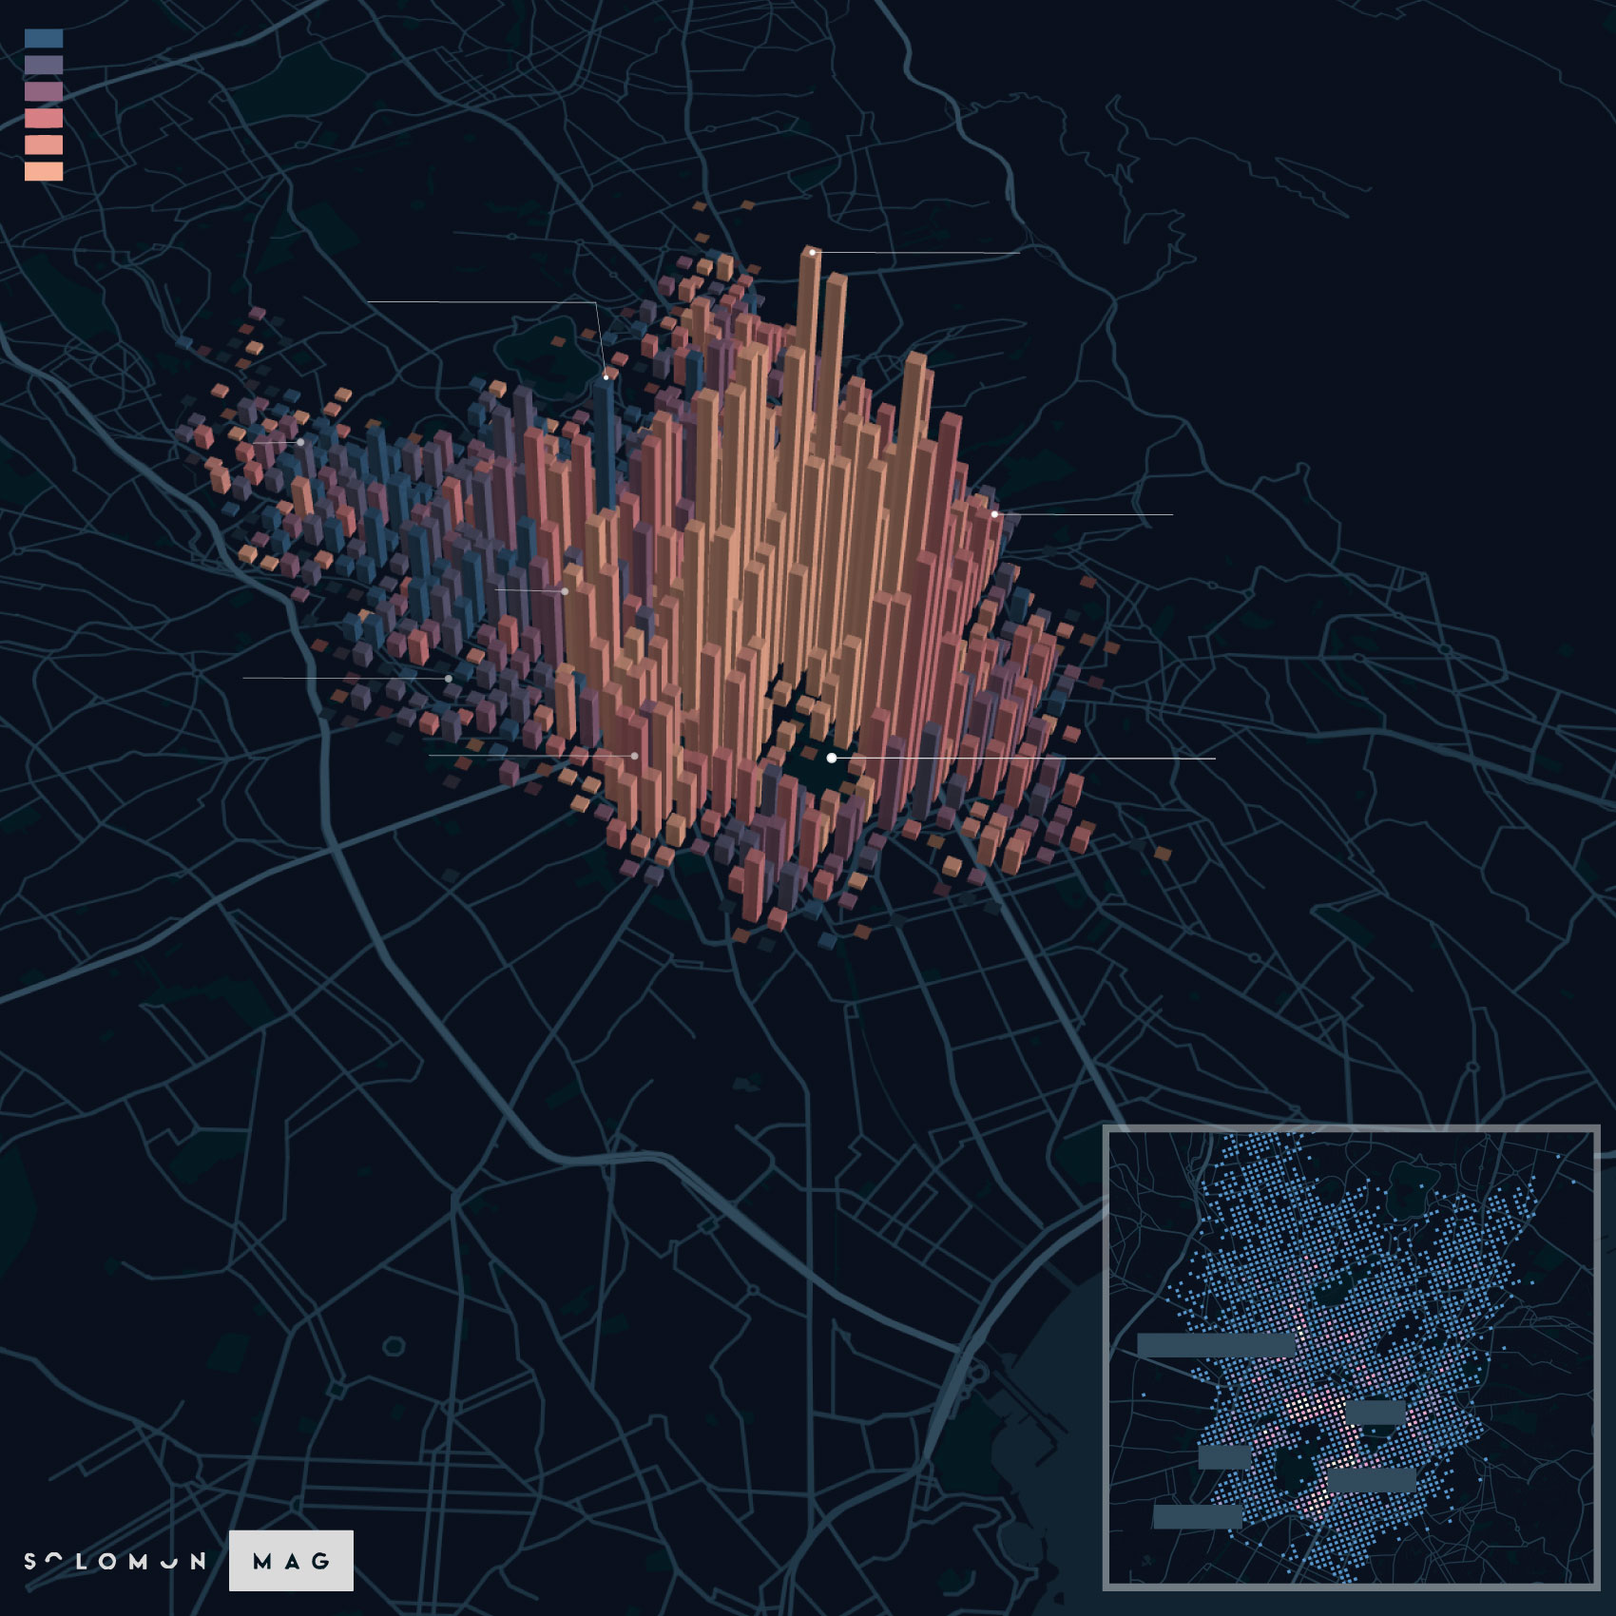
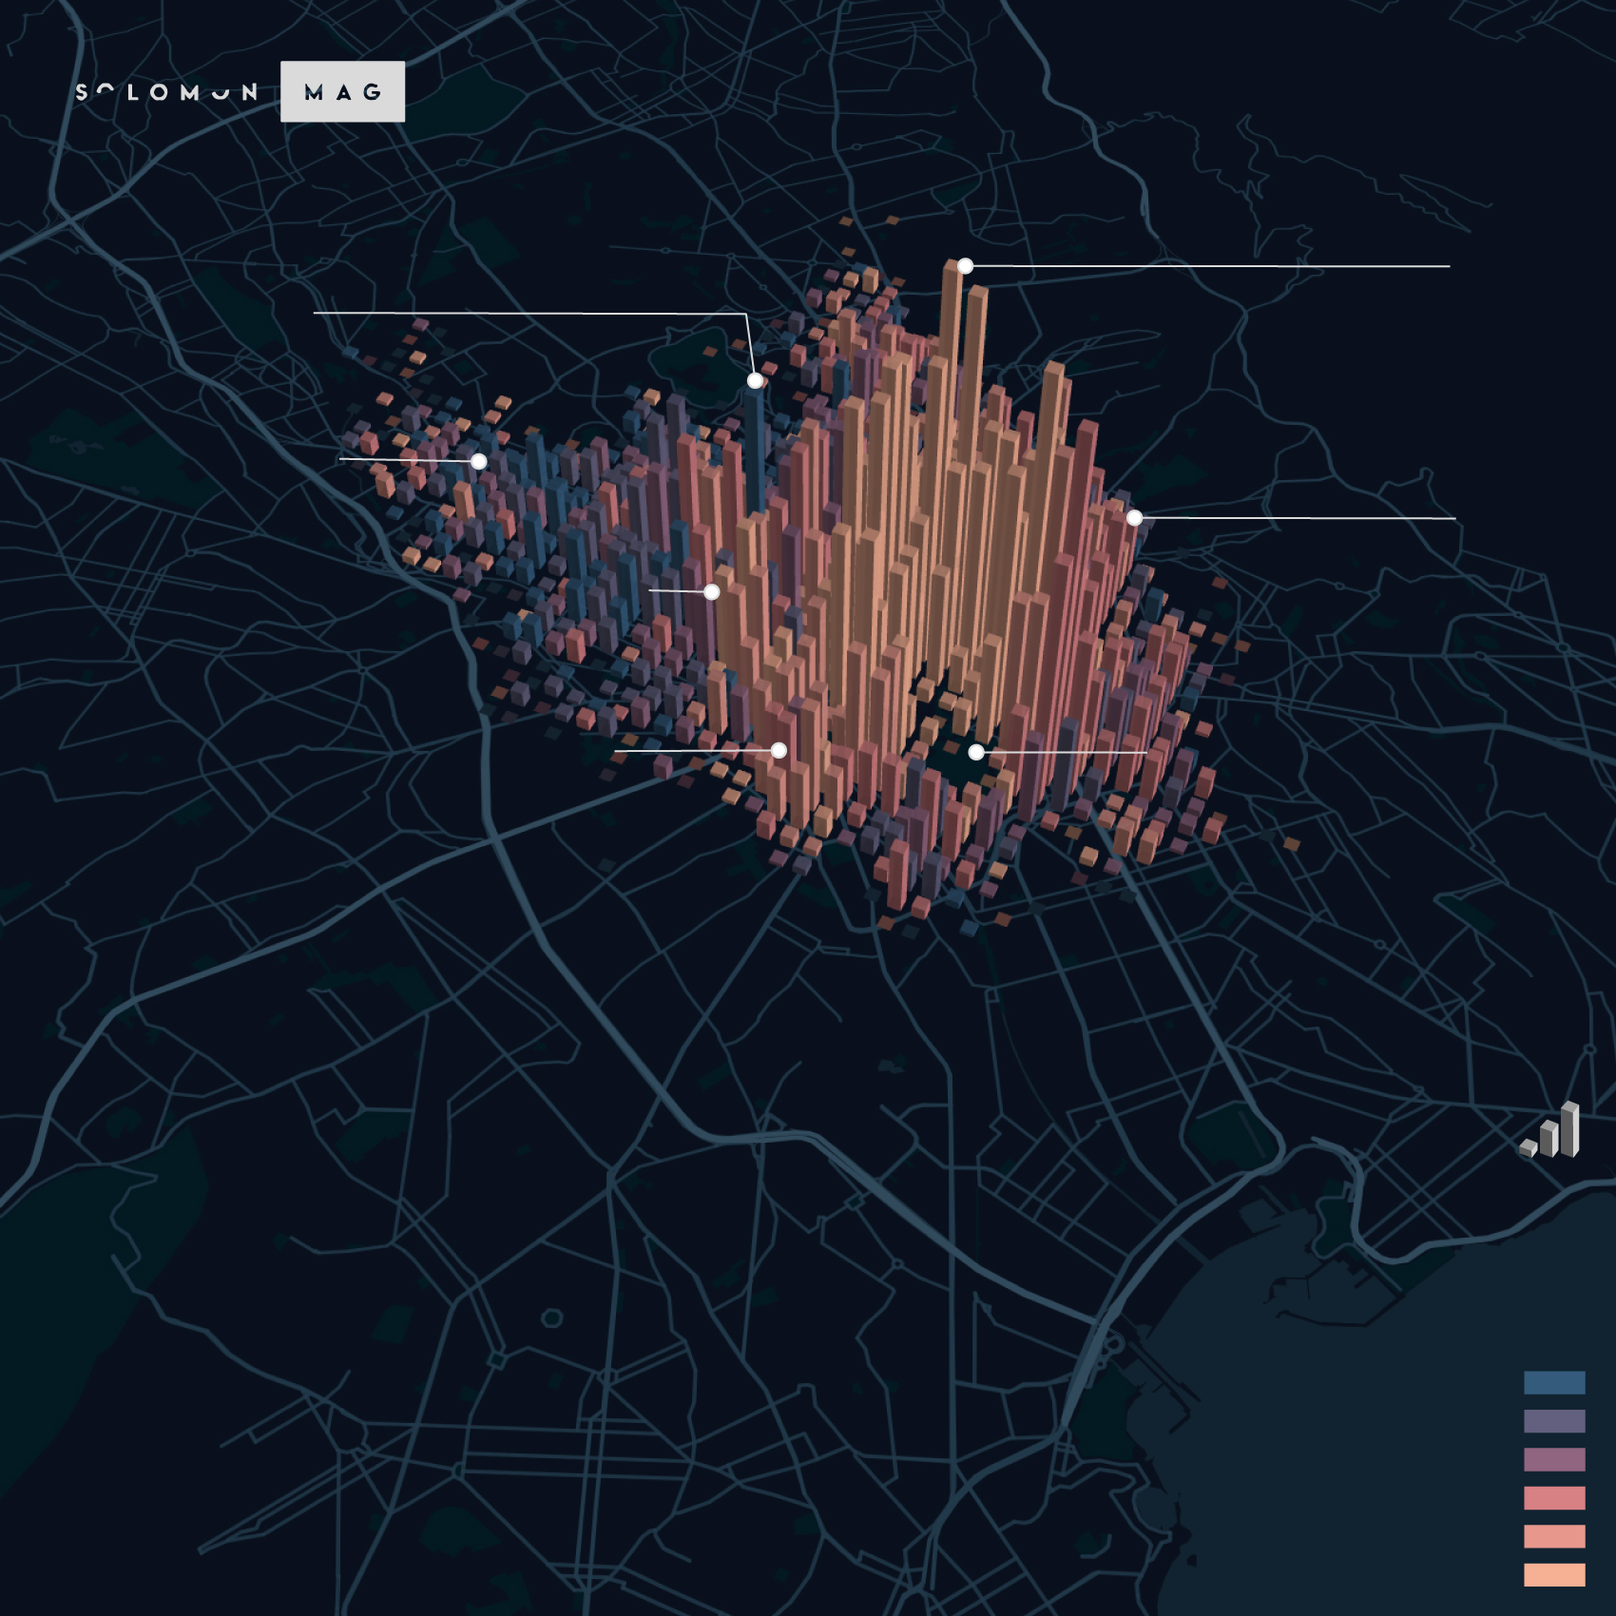
updates

diff --git a/airbnb/index.html b/airbnb/index.html
@@ -1,5 +1,5 @@
 
-<!-- Generated by ai2html v0.89.0 - 2019-07-04 18:56 -->
+<!-- Generated by ai2html v0.89.0 - 2019-08-15 16:33 -->
 <!-- ai file: AIRBNB.ai -->
 <style type='text/css' media='screen,print'>
 	#g-AIRBNB-box .g-artboard {
@@ -25,15 +25,15 @@
 		overflow:hidden;
 	}
 	#g-AIRBNB-Artboard_1 p {
-		font-family:roboto-condensed,sans-serif;
-		font-size:15px;
-		line-height:17px;
+		font-family:Roboto-Light,sans-serif;
+		font-size:20px;
+		line-height:24px;
 		filter:alpha(opacity=100);
 		-ms-filter:progid:DXImageTransform.Microsoft.Alpha(Opacity=100);
 		opacity:1;
 		letter-spacing:0em;
 		text-align:left;
-		color:rgb(218,218,218);
+		color:rgb(239,239,239);
 		text-transform:none;
 		padding-bottom:0;
 		padding-top:0;
@@ -43,86 +43,116 @@
 		position:static;
 	}
 	#g-AIRBNB-Artboard_1 .g-pstyle0 {
-		font-style:italic;
-		font-size:11px;
-		line-height:11px;
-		height:11px;
-		filter:alpha(opacity=80);
-		-ms-filter:progid:DXImageTransform.Microsoft.Alpha(Opacity=80);
-		opacity:0.8;
+		font-size:10px;
+		line-height:6px;
+		filter:alpha(opacity=50);
+		-ms-filter:progid:DXImageTransform.Microsoft.Alpha(Opacity=50);
+		opacity:0.5;
 		text-align:right;
+		color:rgb(218,218,218);
 	}
 	#g-AIRBNB-Artboard_1 .g-pstyle1 {
-		font-size:12px;
-		line-height:20px;
-		height:20px;
+		font-size:10px;
+		line-height:6px;
+		height:6px;
+		filter:alpha(opacity=50);
+		-ms-filter:progid:DXImageTransform.Microsoft.Alpha(Opacity=50);
+		opacity:0.5;
+		text-align:right;
+		color:rgb(218,218,218);
 	}
 	#g-AIRBNB-Artboard_1 .g-pstyle2 {
+		font-size:17px;
+		line-height:20px;
+		text-align:right;
+		color:rgb(218,218,218);
+	}
+	#g-AIRBNB-Artboard_1 .g-pstyle3 {
+		font-family:Roboto-Regular,sans-serif;
+		font-size:17px;
+		line-height:22px;
+		height:22px;
+		color:rgb(218,218,218);
+	}
+	#g-AIRBNB-Artboard_1 .g-pstyle4 {
+		font-family:Roboto-Regular,sans-serif;
+		font-size:17px;
+		line-height:17px;
+		height:17px;
+		text-align:right;
+		color:rgb(218,218,218);
+	}
+	#g-AIRBNB-Artboard_1 .g-pstyle5 {
+		font-family:Roboto-Regular,sans-serif;
+		font-size:17px;
+		line-height:22px;
+		height:22px;
+		filter:alpha(opacity=90);
+		-ms-filter:progid:DXImageTransform.Microsoft.Alpha(Opacity=90);
+		opacity:0.9;
+		color:rgb(218,218,218);
+	}
+	#g-AIRBNB-Artboard_1 .g-pstyle6 {
+		font-family:Roboto-Regular,sans-serif;
+		font-size:17px;
+		line-height:22px;
+		height:22px;
+		filter:alpha(opacity=40);
+		-ms-filter:progid:DXImageTransform.Microsoft.Alpha(Opacity=40);
+		opacity:0.4;
+		color:rgb(218,218,218);
+	}
+	#g-AIRBNB-Artboard_1 .g-pstyle7 {
+		font-size:47px;
+		line-height:56px;
+		color:rgb(218,218,218);
+	}
+	#g-AIRBNB-Artboard_1 .g-pstyle8 {
+		font-family:roboto-condensed,sans-serif;
+		font-size:12px;
+		line-height:12px;
+		text-align:right;
+		color:rgb(218,218,218);
+	}
+	#g-AIRBNB-Artboard_1 .g-pstyle9 {
+		font-family:roboto-condensed,sans-serif;
+		font-size:12px;
+		line-height:21px;
+		height:21px;
+		text-align:right;
+		color:rgb(218,218,218);
+	}
+	#g-AIRBNB-Artboard_1 .g-pstyle10 {
+		font-family:Roboto-Italic,sans-serif;
 		font-style:italic;
-		font-size:9px;
-		line-height:9px;
+		font-size:17px;
+		line-height:20px;
+		height:20px;
 		filter:alpha(opacity=80);
 		-ms-filter:progid:DXImageTransform.Microsoft.Alpha(Opacity=80);
 		opacity:0.8;
-		text-align:right;
-	}
-	#g-AIRBNB-Artboard_1 .g-pstyle3 {
-		font-size:12px;
-		line-height:12px;
-		text-align:right;
-	}
-	#g-AIRBNB-Artboard_1 .g-pstyle4 {
-		font-size:12px;
-		line-height:12px;
-		height:12px;
-	}
-	#g-AIRBNB-Artboard_1 .g-pstyle5 {
-		font-size:20px;
-		line-height:12px;
-		height:12px;
-		filter:alpha(opacity=60);
-		-ms-filter:progid:DXImageTransform.Microsoft.Alpha(Opacity=60);
-		opacity:0.6;
-	}
-	#g-AIRBNB-Artboard_1 .g-pstyle6 {
-		font-size:20px;
-		line-height:18px;
-		height:18px;
-		filter:alpha(opacity=60);
-		-ms-filter:progid:DXImageTransform.Microsoft.Alpha(Opacity=60);
-		opacity:0.6;
-		text-align:right;
-	}
-	#g-AIRBNB-Artboard_1 .g-pstyle7 {
-		font-size:20px;
-		line-height:18px;
-		height:18px;
-		filter:alpha(opacity=60);
-		-ms-filter:progid:DXImageTransform.Microsoft.Alpha(Opacity=60);
-		opacity:0.6;
-	}
-	#g-AIRBNB-Artboard_1 .g-pstyle8 {
-		font-style:bold;
-		font-size:25px;
-		line-height:7px;
-		height:7px;
-	}
-	#g-AIRBNB-Artboard_1 .g-pstyle9 {
-		font-size:36px;
-		line-height:36px;
-		height:36px;
-	}
-	#g-AIRBNB-Artboard_1 .g-pstyle10 {
-		font-style:italic;
-		font-size:12px;
-		line-height:12px;
-		text-align:right;
+		color:rgb(232,232,232);
 	}
 	#g-AIRBNB-Artboard_1 .g-pstyle11 {
-		font-style:bold;
-		font-size:9px;
-		line-height:7px;
-		height:7px;
+		font-family:Roboto-LightItalic,sans-serif;
+		font-size:17px;
+		line-height:20px;
+		height:20px;
+		filter:alpha(opacity=80);
+		-ms-filter:progid:DXImageTransform.Microsoft.Alpha(Opacity=80);
+		opacity:0.8;
+		color:rgb(232,232,232);
+	}
+	#g-AIRBNB-Artboard_1 .g-pstyle12 {
+		font-family:roboto-condensed,sans-serif;
+		font-size:12px;
+		line-height:12px;
+		height:12px;
+		color:rgb(218,218,218);
+	}
+	#g-AIRBNB-Artboard_1 .g-cstyle0 {
+		font-family:Roboto-Black,sans-serif;
+		font-weight:black;
 	}
 
 </style>
@@ -132,95 +162,73 @@
 	<!-- Artboard: Artboard_1 -->
 	<div id="g-AIRBNB-Artboard_1" class="g-artboard" style="width:850px; height:850px;" data-aspect-ratio="1" data-min-width="850">
 		<img id="g-AIRBNB-Artboard_1-img" class="g-aiImg g-aiAbs" alt="" src="AIRBNB-Artboard_1.jpg"/>
-		<div id="g-ai0-1" class="g-Layer_1 g-aiAbs g-aiPointText" style="top:3.1406%;margin-top:-11.7px;right:0.9431%;width:243px;">
-			<p class="g-pstyle0">Θανάσης Τρομπούκης</p>
-			<p class="g-pstyle0">Έρευνα - Ανάλυση - Οπτικοποίηση Δεδομένων</p>
+		<div id="g-ai0-1" class="g-Layer_1 g-aiAbs" style="top:2.9412%;right:2.6494%;width:24.1176%;">
+			<p class="g-pstyle0">ΣΤΟΙΧΕΙΑ ΜΑΪΟΥ 2019 | INSIDEAIRBNB.COM</p>
 		</div>
-		<div id="g-ai0-2" class="g-Layer_1 g-aiAbs g-aiPointText" style="top:2.5599%;margin-top:-10.8px;left:4.5492%;width:62px;">
-			<p class="g-pstyle1">έως 23&euro;</p>
+		<div id="g-ai0-2" class="g-Layer_1 g-aiAbs g-aiPointText" style="top:5.0156%;margin-top:-3.6px;right:2.5422%;width:166px;">
+			<p class="g-pstyle1">ΧΑΡΤΟΓΡΑΦΗΣΗ ΜΕ KEPLER.GL</p>
 		</div>
-		<div id="g-ai0-3" class="g-Layer_1 g-aiAbs g-aiPointText" style="top:4.2069%;margin-top:-10.8px;left:4.3975%;width:63px;">
-			<p class="g-pstyle1">23&euro;- 35&euro;</p>
+		<div id="g-ai0-3" class="g-Layer_1 g-aiAbs" style="top:11.0588%;right:10.5171%;width:29.4118%;">
+			<p class="g-pstyle2">98 διαμερίσματα στο Ιστορικό Τρίγωνο της Αθήνας</p>
 		</div>
-		<div id="g-ai0-4" class="g-Layer_1 g-aiAbs" style="top:4.8235%;right:0.9269%;width:27.4118%;">
-			<p class="g-pstyle2">Τα δεδομένα είναι του Μαΐου 2019, και δημοσιεύτηκαν από το Inside Airbnb (insideairbnb.com),  έναν οργανισμό</p>
-			<p class="g-pstyle2">που συγκεντρώνει κάθε μήνα τα ανοικτά προσβάσιμα δεδομένα του Airbnb για τις μεγαλύτερες πόλεις του κόσμου και τα δημοσιεύει δωρεάν στο Διαδίκτυο</p>
+		<div id="g-ai0-4" class="g-Layer_1 g-aiAbs" style="top:14.2353%;right:53.263%;width:31.0588%;">
+			<p class="g-pstyle2"> 64 διαμερίσματα στο Μουσείο με μέση  τιμή διανυκτέρευσης τα 20&euro; </p>
 		</div>
-		<div id="g-ai0-5" class="g-Layer_1 g-aiAbs g-aiPointText" style="top:5.854%;margin-top:-10.8px;left:4.3975%;width:63px;">
-			<p class="g-pstyle1">35&euro;- 40&euro;</p>
+		<div id="g-ai0-5" class="g-Layer_1 g-aiAbs" style="top:26.9412%;right:10.3469%;width:18.9412%;">
+			<p class="g-pstyle2">45 διαμερίσματα στο Παγκράτι </p>
 		</div>
-		<div id="g-ai0-6" class="g-Layer_1 g-aiAbs g-aiPointText" style="top:7.3834%;margin-top:-10.8px;left:4.3974%;width:63px;">
-			<p class="g-pstyle1">40&euro;- 49&euro;</p>
+		<div id="g-ai0-6" class="g-Layer_1 g-aiAbs g-aiPointText" style="top:28.5971%;margin-top:-12.1px;left:12.3116%;width:93px;">
+			<p class="g-pstyle3">ΠΑΤΗΣΙΑ</p>
 		</div>
-		<div id="g-ai0-7" class="g-Layer_1 g-aiAbs g-aiPointText" style="top:9.1481%;margin-top:-10.8px;left:4.276%;width:63px;">
-			<p class="g-pstyle1">49&euro;- 63&euro;</p>
+		<div id="g-ai0-7" class="g-Layer_1 g-aiAbs g-aiPointText" style="top:37.0676%;margin-top:-18.1px;right:60.3896%;width:170px;">
+			<p class="g-pstyle4">ΑΓΙΟΣ</p>
+			<p class="g-pstyle4">ΠΑΝΤΕΛΕΗΜΟΝΑΣ</p>
 		</div>
-		<div id="g-ai0-8" class="g-Layer_1 g-aiAbs g-aiPointText" style="top:10.6775%;margin-top:-10.8px;left:4.276%;width:89px;">
-			<p class="g-pstyle1">πάνω από 63&euro;</p>
+		<div id="g-ai0-8" class="g-Layer_1 g-aiAbs g-aiPointText" style="top:46.4794%;margin-top:-12.1px;left:32.4197%;width:68px;">
+			<p class="g-pstyle3">ΓΚΑΖΙ</p>
 		</div>
-		<div id="g-ai0-9" class="g-Layer_1 g-aiAbs" style="top:14%;right:63.1353%;width:14.9412%;">
-			<p class="g-pstyle3"> 64 διαμερίσματα με μέση τιμή διανυκτέρευσης τα 20&euro; στο Μουσείο </p>
-		</div>
-		<div id="g-ai0-10" class="g-Layer_1 g-aiAbs g-aiPointText" style="top:16.6775%;margin-top:-18.8px;left:63.2974%;width:127px;">
-			<p class="g-pstyle4">98 διαμερίσματα</p>
-			<p class="g-pstyle4">στο ιστορικό τρίγωνο</p>
-			<p class="g-pstyle4">της Αθήνας </p>
-		</div>
-		<div id="g-ai0-11" class="g-Layer_1 g-aiAbs g-aiPointText" style="top:27.3253%;margin-top:-7.3px;left:6.8993%;width:96px;">
-			<p class="g-pstyle5">ΠΑΤΗΣΙΑ</p>
-		</div>
-		<div id="g-ai0-12" class="g-Layer_1 g-aiAbs g-aiPointText" style="top:32.3246%;margin-top:-16.8px;left:72.9631%;width:102px;">
-			<p class="g-pstyle1">45 διαμερίσματα</p>
-			<p class="g-pstyle4">στο Παγκράτι </p>
-		</div>
-		<div id="g-ai0-13" class="g-Layer_1 g-aiAbs g-aiPointText" style="top:36.9723%;margin-top:-19.3px;right:69.4697%;width:174px;">
-			<p class="g-pstyle6">ΑΓΙΟΣ</p>
-			<p class="g-pstyle6">ΠΑΝΤΕΛΕΗΜΟΝΑΣ</p>
-		</div>
-		<div id="g-ai0-14" class="g-Layer_1 g-aiAbs g-aiPointText" style="top:41.9135%;margin-top:-19.3px;left:3.5808%;width:117px;">
-			<p class="g-pstyle7">ΑΚΑΔΗΜΙΑ </p>
-			<p class="g-pstyle7">ΠΛΑΤΩΝΟΣ</p>
-		</div>
-		<div id="g-ai0-15" class="g-Layer_1 g-aiAbs g-aiPointText" style="top:46.737%;margin-top:-7.3px;left:20.8605%;width:70px;">
-			<p class="g-pstyle5">ΓΚΑΖΙ</p>
-		</div>
-		<div id="g-ai0-16" class="g-Layer_1 g-aiAbs g-aiPointText" style="top:47.09%;margin-top:-7.3px;left:75.4151%;width:116px;">
+		<div id="g-ai0-9" class="g-Layer_1 g-aiAbs g-aiPointText" style="top:46.7147%;margin-top:-12.1px;left:71.2106%;width:113px;">
 			<p class="g-pstyle5">ΑΚΡΟΠΟΛΗ</p>
 		</div>
-		<div id="g-ai0-17" class="g-Layer_1 g-aiAbs g-aiPointText" style="top:54.0095%;margin-top:-5.1px;left:22.9021%;width:154px;">
-			<p class="g-pstyle8">ΠΕΤΡΑΛΩΝΑ</p>
+		<div id="g-ai0-10" class="g-Layer_1 g-aiAbs g-aiPointText" style="top:52.95%;margin-top:-12.1px;left:33.0307%;width:120px;">
+			<p class="g-pstyle6">ΠΕΤΡΑΛΩΝΑ</p>
 		</div>
-		<div id="g-ai0-18" class="g-Layer_1 g-aiAbs g-aiPointText" style="top:57.1859%;margin-top:-5.1px;left:64.4366%;width:165px;">
-			<p class="g-pstyle8">ΝΕΑ ΣΜΥΡΝΗ</p>
+		<div id="g-ai0-11" class="g-Layer_1 g-aiAbs g-aiPointText" style="top:57.1853%;margin-top:-12.1px;left:68.0858%;width:129px;">
+			<p class="g-pstyle6">ΝΕΑ ΣΜΥΡΝΗ</p>
 		</div>
-		<div id="g-ai0-19" class="g-Layer_1 g-aiAbs g-aiPointText" style="top:69.0884%;margin-top:-56.3px;left:1.5338%;width:470px;">
-			<p class="g-pstyle9">Ένας τρισδιάστατος χάρτης</p>
-			<p class="g-pstyle9">των Airbnb διαμερισμάτων</p>
-			<p class="g-pstyle9">στον Δήμο της Αθήνας</p>
+		<div id="g-ai0-12" class="g-Layer_1 g-aiAbs" style="top:68.5882%;left:2.7792%;width:77.6471%;">
+			<p class="g-pstyle7">Η συγκέντρωση των <span class="g-cstyle0">Airbnb </span> στις γειτονιές της Αθήνας</p>
 		</div>
-		<div id="g-ai0-20" class="g-Layer_1 g-aiAbs" style="top:65.2941%;right:0.9454%;width:30.1176%;">
-			<p class="g-pstyle10">Όσο πιο ανοικτό το χρώμα, τόσο περισσότερα διαμερίσματα εντοπίζονται στο συγκεκριμένο σημείο. </p>
+		<div id="g-ai0-13" class="g-Layer_1 g-aiAbs" style="top:72.3529%;right:1.8565%;width:11.2941%;">
+			<p class="g-pstyle8">Όσο πιο ψηλή η στήλη, τόσα περισσότερα διαμερίσματα συγκεντρώνονται σε απόσταση 200 μέτρων</p>
 		</div>
-		<div id="g-ai0-21" class="g-Layer_1 g-aiAbs" style="top:76.5882%;left:1.5338%;width:61.0588%;">
-			<p>Κάθε τετράγωνο καλύπτει ακτίνα διακοσίων μέτρων. Όσο πιο ψηλά ανεβαίνει το κάθε σημείο, τόσα περισσότερα διαμερίσματα Airbnb εντοπίζονται στην ακτίνα των 200 μέτρων. Όσο πιο ανοικτόχρωμη είναι το κάθε ορθογώνιο, τόσο πιο ακριβή είναι η διανυκτέρευση, με την πλειονότητα των τιμών να κυμαίνονται από 20&euro;έως 70&euro; την ημέρα. Ο χάρτης μας δείχνει ότι η Πλάκα, το Κουκάκι, το Κολωνάκι και το ιστορικό τρίγωνο έχουν την υψηλότερη συγκέντρωση Airbnb. Ακολουθούν η Κυψέλη, τα Εξάρχεια, το Μουσείο και ο Άγιος Παντελεήμονας. </p>
+		<div id="g-ai0-14" class="g-Layer_1 g-aiAbs" style="top:82.1176%;left:2.5593%;width:76.4706%;">
+			<p>Περισσότερα από 10 χιλιάδες διαμερίσματα νοικιάζονται κατά μέσο όρο με 55&euro; την ημέρα.  Πρώτα σε συγκέντρωση διαμερισμάτων η Πλάκα, το Κουκάκι, Μουσείο, Νέος Κόσμος, Παγκράτι και η Πλατεία Βάθης. </p>
 		</div>
-		<div id="g-ai0-22" class="g-Layer_1 g-aiAbs g-aiPointText" style="top:83.2702%;margin-top:-3.8px;left:70.6836%;width:101px;">
-			<p class="g-pstyle11">ΑΓ. ΠΑΝΤΕΛΕΗΜΟΝΑΣ</p>
+		<div id="g-ai0-15" class="g-Layer_1 g-aiAbs g-aiPointText" style="top:85.6936%;margin-top:-11.4px;right:6.3458%;width:63px;">
+			<p class="g-pstyle9">έως 23&euro;</p>
 		</div>
-		<div id="g-ai0-23" class="g-Layer_1 g-aiAbs g-aiPointText" style="top:87.3878%;margin-top:-3.8px;left:83.5597%;width:48px;">
-			<p class="g-pstyle11">ΠΛΑΚΑ</p>
+		<div id="g-ai0-16" class="g-Layer_1 g-aiAbs g-aiPointText" style="top:88.0466%;margin-top:-11.4px;right:6.313%;width:64px;">
+			<p class="g-pstyle9">23&euro;- 35&euro;</p>
 		</div>
-		<div id="g-ai0-24" class="g-Layer_1 g-aiAbs g-aiPointText" style="top:90.2113%;margin-top:-3.8px;left:74.4543%;width:44px;">
-			<p class="g-pstyle11">ΓΚΑΖΙ</p>
+		<div id="g-ai0-17" class="g-Layer_1 g-aiAbs g-aiPointText" style="top:90.2819%;margin-top:-11.4px;right:6.2282%;width:64px;">
+			<p class="g-pstyle9">35&euro;- 40&euro;</p>
 		</div>
-		<div id="g-ai0-25" class="g-Layer_1 g-aiAbs g-aiPointText" style="top:91.6231%;margin-top:-3.8px;left:82.4513%;width:64px;">
-			<p class="g-pstyle11">ΑΚΡΟΠΟΛΗ</p>
+		<div id="g-ai0-18" class="g-Layer_1 g-aiAbs g-aiPointText" style="top:92.7525%;margin-top:-11.4px;right:6.313%;width:64px;">
+			<p class="g-pstyle9">40&euro;- 49&euro;</p>
 		</div>
-		<div id="g-ai0-26" class="g-Layer_1 g-aiAbs g-aiPointText" style="top:93.8584%;margin-top:-3.8px;left:71.5149%;width:67px;">
-			<p class="g-pstyle11">ΠΕΤΡΑΛΩΝΑ</p>
+		<div id="g-ai0-19" class="g-Layer_1 g-aiAbs g-aiPointText" style="top:94.95%;margin-top:-21.1px;left:3.0183%;width:363px;">
+			<p class="g-pstyle10">Θανάσης Τρομπούκης | @troboukis</p>
+			<p class="g-pstyle11">Έρευνα - Ανάλυση - Οπτικοποίηση Δεδομένων</p>
+		</div>
+		<div id="g-ai0-20" class="g-Layer_1 g-aiAbs g-aiPointText" style="top:95.1054%;margin-top:-11.4px;right:6.398%;width:64px;">
+			<p class="g-pstyle9">49&euro;- 63&euro;</p>
+		</div>
+		<div id="g-ai0-21" class="g-Layer_1 g-aiAbs g-aiPointText" style="top:97.5172%;margin-top:-6.9px;left:90.6128%;width:49px;">
+			<p class="g-pstyle12">> 63&euro;</p>
 		</div>
 	</div>
 
 </div>
 
-<!-- End ai2html - 2019-07-04 18:56 -->
+<!-- End ai2html - 2019-08-15 16:33 -->
